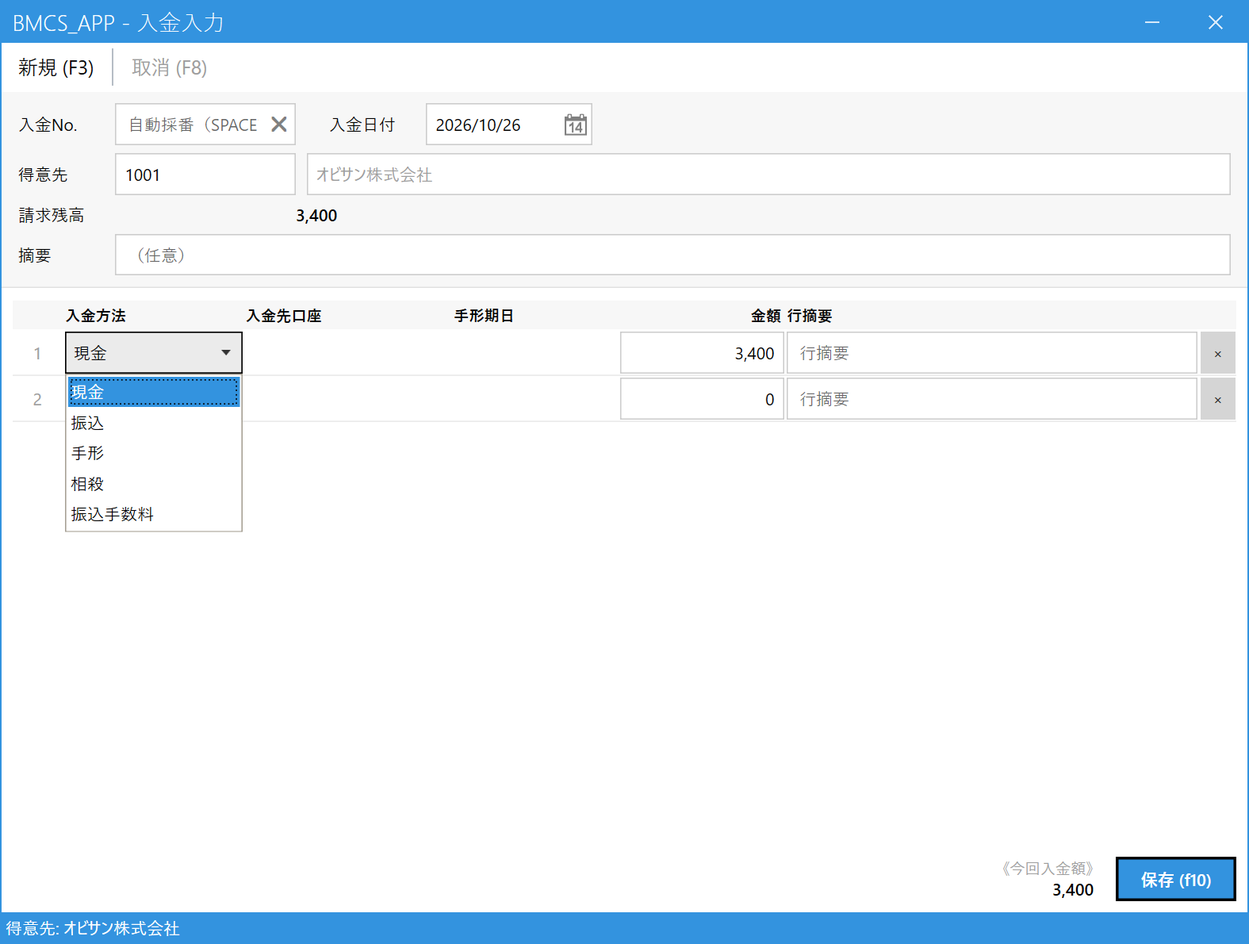
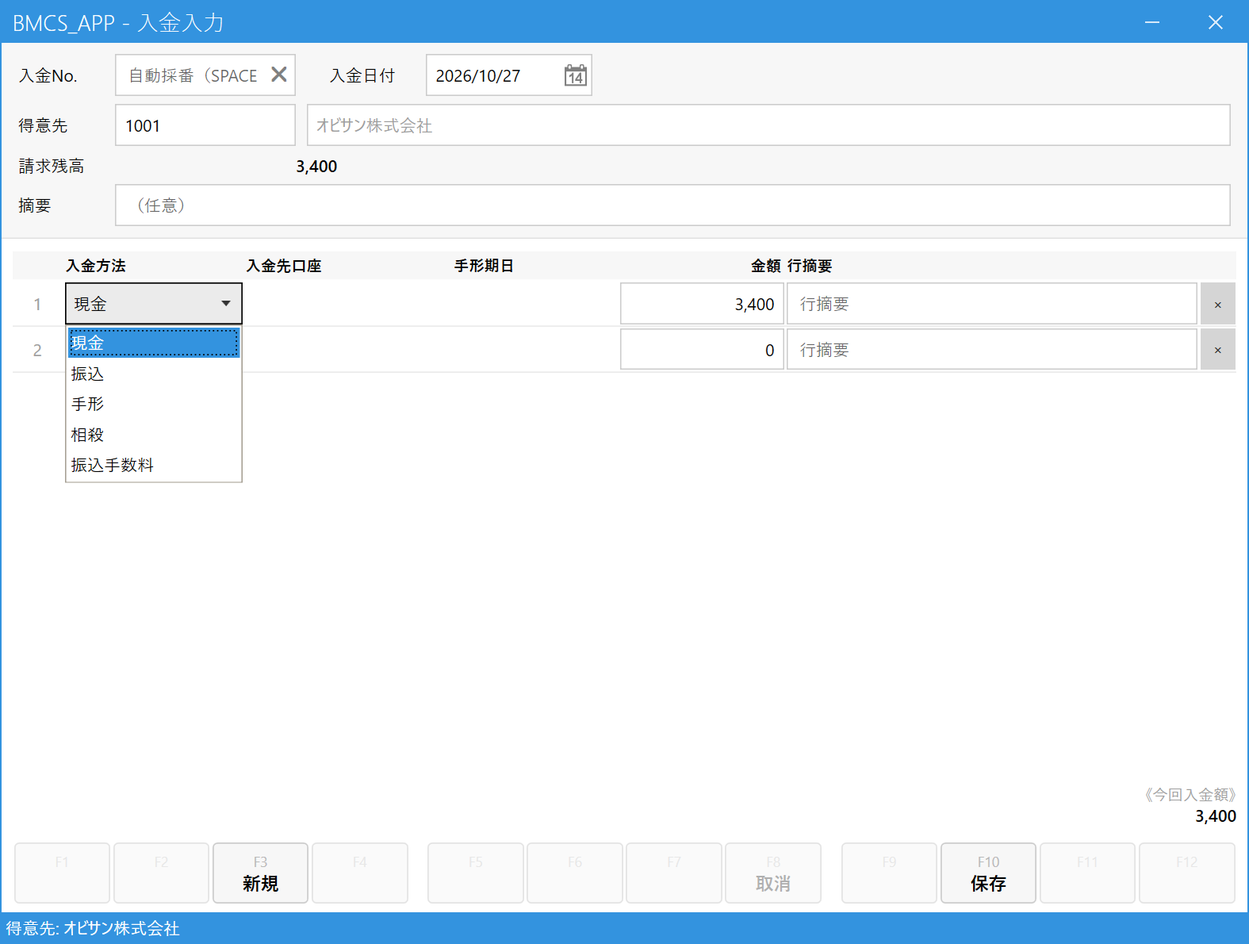
マニュアル更新

diff --git a/docs/users-manual-jp/order-entry.html b/docs/users-manual-jp/order-entry.html
@@ -29,7 +29,7 @@
 <ol class="legend"><li>「受注入力」をクリックする</li></ol>
 
 <h3>画面の見方</h3>
-<figure data-ann='[{"r":[124,130,602,53],"n":1},{"r":[124,193,1341,53],"n":2},{"r":[124,256,1341,116],"n":3},{"r":[2,395,1921,90],"n":4,"b":[1000,700]},{"r":[1385,1077,312,128],"n":5,"b":[1250,900]},{"r":[1710,1087,192,49],"n":6,"b":[1806,900]}]'>
+<figure data-ann='[{"r":[124,68,602,53],"n":1},{"r":[124,131,1341,53],"n":2},{"r":[124,194,1341,116],"n":3},{"r":[2,333,1921,90],"n":4,"b":[1000,700]},{"r":[1592,983,310,128],"n":5,"b":[1450,880]},{"r":[18,1132,1890,77],"n":6,"b":[1000,1040]}]'>
   <div class="frame"><img src="images/order-01-empty.png" alt="受注入力画面（初期状態）"></div>
   <figcaption>受注入力画面（開いた直後）</figcaption>
 </figure>
@@ -39,7 +39,7 @@
   <li><b>担当者・摘要</b>：自社の担当者と、伝票のメモ欄です（どちらも任意）。</li>
   <li><b>明細</b>：何をいくつ注文されたかを1行ずつ入れます。</li>
   <li><b>合計</b>：入力に合わせて自動で計算されます。</li>
-  <li><b>保存</b>：最後にここを押します（<kbd>F10</kbd> でも可）。</li>
+  <li><b>操作ボタン</b>：新規・保存などのボタンです。ボタン上段の小さな「F10」などは、同じ操作ができるキーボードのキーです。最後に<b>「保存」</b>を押します（<kbd>F10</kbd> でも可）。</li>
 </ol>
 
 <h2><span class="no">2.</span>得意先を決める</h2>
@@ -56,7 +56,7 @@
 </ol>
 
 <p>得意先が決まると、得意先名・担当者・営業担当が自動で入ります。</p>
-<figure data-ann='[{"r":[366,193,1099,53],"n":1},{"r":[124,256,662,53],"n":2,"b":[1000,282]},{"r":[1480,132,422,240],"n":3}]'>
+<figure data-ann='[{"r":[366,131,1099,53],"n":1},{"r":[124,194,662,53],"n":2,"b":[1000,220]},{"r":[1480,70,422,240],"n":3}]'>
   <div class="frame"><img src="images/order-03-customer-set.png" alt="得意先を選んだ後"></div>
   <figcaption>得意先を選んだ後</figcaption>
 </figure>
@@ -80,7 +80,7 @@
 </ol>
 
 <p>商品を選ぶと、商品名・単価・税率が自動で入り、カーソルが<b>数量</b>へ移ります。数量を入れて <kbd>Enter</kbd> で次の欄へ進みます。商品を入れると空の行が自動で1行増えるので、続けて次の商品を入力できます。</p>
-<figure data-ann='[{"r":[964,429,123,110],"n":1,"b":[1025,700]},{"r":[1090,429,151,110],"n":2,"b":[1165,700]},{"r":[1480,429,70,110],"n":3,"b":[1515,700]},{"r":[1650,429,224,110],"n":4,"b":[1762,700]},{"r":[1878,429,44,110],"n":5,"b":[1896,700]}]'>
+<figure data-ann='[{"r":[964,367,123,110],"n":1,"b":[1025,700]},{"r":[1090,367,151,110],"n":2,"b":[1165,700]},{"r":[1480,367,70,110],"n":3,"b":[1515,700]},{"r":[1650,367,224,110],"n":4,"b":[1762,700]},{"r":[1878,367,44,110],"n":5,"b":[1896,700]}]'>
   <div class="frame"><img src="images/order-07-filled.png" alt="明細を入力した状態"></div>
   <figcaption>2行入力した状態</figcaption>
 </figure>
@@ -95,14 +95,14 @@
 
 <h2><span class="no">4.</span>内容を確認して保存する</h2>
 <p>得意先・明細・合計が正しいか見直し、<b>保存</b>を押します。</p>
-<figure data-ann='[{"r":[124,319,664,53],"n":1,"b":[1000,282]},{"r":[1385,1077,312,128],"n":2,"b":[1250,900]},{"r":[1710,1087,192,49],"n":3,"b":[1806,900]}]'>
+<figure data-ann='[{"r":[124,257,664,53],"n":1,"b":[1000,220]},{"r":[1592,983,310,128],"n":2,"b":[1450,880]},{"r":[1448,1132,151,77],"n":3,"b":[1300,1000]}]'>
   <div class="frame"><img src="images/order-07-filled.png" alt="保存前の画面"></div>
   <figcaption>保存前の画面</figcaption>
 </figure>
 <ol class="legend">
   <li><b>摘要</b>：伝票に残したいメモ（任意）。右隣の「社内摘要」は社内用で、納品書には印字されません。</li>
   <li><b>合計</b>：税込の合計です。注文内容と合っているか確認します。</li>
-  <li><b>保存 (F10)</b>：ここを押すか <kbd>F10</kbd>。</li>
+  <li><b>保存</b>：ここを押すか <kbd>F10</kbd>。</li>
 </ol>
 <p>保存に成功すると、画面下に<b>「登録しました。受注No. ○○○○○○○○」</b>と表示され、画面は次の入力のために空に戻ります。控えが必要なときは、この受注Noを書き留めておきます。</p>
 <div class="warn">「得意先を指定してください」「明細行を1件以上入力してください」と表示されたときは、足りない項目を入力してもう一度保存します。</div>
@@ -111,10 +111,10 @@
 <table>
   <tr><th>やりたいこと</th><th>操作</th></tr>
   <tr><td>登録済みの受注を開いて見る・直す</td><td>受注No.欄に番号を入れて <kbd>Enter</kbd>、または <kbd>Space</kbd> で一覧から選ぶ。<b>未売上の受注だけ</b>修正できます。直したら保存。</td></tr>
-  <tr><td>前に登録した受注を見たい</td><td>ツールバーの「<」「>」で前後の受注に移動します。</td></tr>
-  <tr><td>過去の受注と同じ内容で新しく登録したい</td><td>ツールバーの<b>「複写」</b>で複写元を選ぶと、内容が入った状態から新規登録できます。</td></tr>
-  <tr><td>注文がキャンセルになった</td><td>その受注を開いて<b>「中止 (F8)」</b>。中止した受注は元に戻せません（間違えたら新しく入力し直します）。売上が完了した受注は中止できません。</td></tr>
-  <tr><td>最初から入力し直したい</td><td><b>「新規 (F3)」</b>で画面を空にします。</td></tr>
+  <tr><td>前に登録した受注を見たい</td><td>画面下の<b>「前伝票」</b>（<kbd>F5</kbd>）・<b>「次伝票」</b>（<kbd>F6</kbd>）で前後の受注に移動します。</td></tr>
+  <tr><td>過去の受注と同じ内容で新しく登録したい</td><td>画面下の<b>「複写」</b>（<kbd>F7</kbd>）で複写元を選ぶと、内容が入った状態から新規登録できます。</td></tr>
+  <tr><td>注文がキャンセルになった</td><td>その受注を開いて<b>「中止」</b>（<kbd>F8</kbd>）。確認が出るので「はい」を押します。中止した受注は元に戻せません（間違えたら新しく入力し直します）。売上が完了した受注は中止できません。</td></tr>
+  <tr><td>最初から入力し直したい</td><td><b>「新規」</b>（<kbd>F3</kbd>）で画面を空にします。</td></tr>
 </table>
 
 <nav class="pager"><a href="index.html">← 目次</a><a href="sales-entry.html">次：売上を登録する →</a></nav>

diff --git a/docs/users-manual-jp/detail-receipt.html b/docs/users-manual-jp/detail-receipt.html
@@ -23,11 +23,11 @@
 <h2><span class="no">1.</span>得意先を決めて、入金の対象を探す</h2>
 <p>メインメニューの<b>「入金」</b>の中の<b>「明細入金」</b>を開き、<b>得意先</b>欄にコードを入れて <kbd>Enter</kbd>（<kbd>Space</kbd> で検索）。右側に、その得意先の<b>入金がまだ済んでいない売上伝票</b>が出ます。</p>
 <figure data-ann='[
- {"r":[539,132,207,49],"n":1,"b":[900,157]},
- {"r":[145,193,228,53],"n":2},
- {"r":[1093,339,463,69],"n":3,"b":[1700,250]},
- {"r":[1098,491,946,44],"n":4,"b":[1400,650]},
- {"r":[1093,879,956,350],"n":5,"b":[500,800]}]'>
+ {"r":[539,70,207,49],"n":1,"b":[900,95]},
+ {"r":[145,131,228,53],"n":2},
+ {"r":[1093,276,463,69],"n":3,"b":[1700,310]},
+ {"r":[1098,392,946,386],"n":4,"b":[1400,650]},
+ {"r":[1093,834,956,347],"n":5,"b":[500,800]}]'>
   <div class="frame"><img src="images/dreceipt-01-customer.png" alt="明細入金（得意先を選んだ直後）"></div>
   <figcaption>得意先を選んだ直後</figcaption>
 </figure>
@@ -40,14 +40,15 @@
 </ol>
 
 <h2><span class="no">2.</span>入金の対象を選ぶ</h2>
-<p><b>売上伝票</b>タブでは、まず伝票を選ぶと下の明細リストが出るので、<b>入金された明細行</b>を選んで <kbd>Enter</kbd>（またはダブルクリック）。左の「入金登録」に1行ずつ入ります。</p>
+<p><b>売上伝票</b>タブでは、まず伝票を選ぶと下の明細リストが出るので、<b>入金された明細行</b>を選んで <kbd>Enter</kbd>（またはダブルクリック、画面下の<b>「追加」</b>〔<kbd>F2</kbd>〕）。左の「入金登録」に1行ずつ入ります。</p>
 <figure data-ann='[
- {"r":[1098,491,946,44],"n":1,"b":[1500,700]},
- {"r":[1093,951,932,43],"n":2,"b":[1500,800]},
- {"r":[16,413,1054,58],"n":3,"b":[500,700]},
- {"r":[334,415,154,52],"n":4,"b":[400,800]},
- {"r":[774,1213,116,50],"n":5,"b":[600,1100]},
- {"r":[918,1213,152,63],"n":6,"b":[1000,1100]}]'>
+ {"r":[1098,430,946,44],"n":1,"b":[1500,650]},
+ {"r":[1093,872,932,43],"n":2,"b":[1500,780]},
+ {"r":[16,351,1054,58],"n":3,"b":[500,650]},
+ {"r":[334,353,154,52],"n":4,"b":[400,780]},
+ {"r":[945,1115,125,63],"n":5,"b":[800,1040]},
+ {"r":[183,1202,163,77],"n":6,"b":[264,1080]},
+ {"r":[1553,1202,163,77],"n":7,"b":[1450,1309]}]'>
   <div class="frame"><img src="images/dreceipt-03-added.png" alt="明細を1行追加した状態"></div>
   <figcaption>明細リストから1行を追加した状態</figcaption>
 </figure>
@@ -57,23 +58,24 @@
   <li><b>入金登録</b>：追加した行です。「充当先」に、伝票番号と行・商品名が出ます。<b>金額は自動で入ります</b>（その行の残額の全額で、手で変えることはできません）。</li>
   <li><b>入金方法</b>：現金・振込などを選びます（振込は入金先口座も選びます）。手形は選べません。</li>
   <li><b>今回入金額</b>：追加した行の合計です。受け取った金額と合っているか確認します。</li>
-  <li><b>保存 (F10)</b>。</li>
+  <li><b>追加</b>（<kbd>F2</kbd>）：右側で行を選んでいるときだけ押せます。</li>
+  <li><b>保存</b>（<kbd>F10</kbd>）。</li>
 </ol>
 <p>行を間違えて入れたら、その行の<b>×</b>で消せます。</p>
 
 <h3>請求書を指定して入金するとき</h3>
-<p>先に<a href="detail-invoice.html">明細請求書</a>を発行してある場合は、<b>「明細請求書」タブ</b>に切り替えて、入金された請求書を選んで <kbd>Enter</kbd>。請求書1枚が丸ごと1行として入ります。</p>
+<p>先に<a href="detail-invoice.html">明細請求書</a>を発行してある場合は、<b>「明細請求書」タブ</b>に切り替えて、入金された請求書を選んで <kbd>Enter</kbd>（または「追加」〔<kbd>F2</kbd>〕）。請求書1枚が丸ごと1行として入ります。</p>
 <div class="note">請求書の<b>一部の売上だけ</b>入金があったときは、請求書タブではなく、<b>売上伝票タブで該当の明細行を指定</b>します。</div>
 
 <h2><span class="no">3.</span>保存する</h2>
-<p><b>保存 (F10)</b> を押すと、入金No.が付いて登録され、指定した売上は「消込済み」（全額の場合）になります。</p>
+<p><b>保存</b>（<kbd>F10</kbd>）を押すと、入金No.が付いて登録され、指定した売上は「消込済み」（全額の場合）になります。</p>
 
 <h2><span class="no">4.</span>よくある操作</h2>
 <table>
   <tr><th>やりたいこと</th><th>操作</th></tr>
   <tr><td>登録済みの入金を見る・直す</td><td>入金No.欄に番号を入れて <kbd>Enter</kbd>、または <kbd>Space</kbd> で一覧から選ぶ。直して保存。</td></tr>
-  <tr><td>入金を取り消す</td><td>入金を呼び出して、ツールバーの<b>「取消 (F8)」</b>。月次締め済みの月の入金は、先に月次締めを解除しないと取り消せません。</td></tr>
-  <tr><td>最初からやり直したい</td><td><b>「新規 (F3)」</b>。</td></tr>
+  <tr><td>入金を取り消す</td><td>入金を呼び出して、画面下の<b>「取消」</b>（<kbd>F8</kbd>）。月次締め済みの月の入金は、先に月次締めを解除しないと取り消せません。</td></tr>
+  <tr><td>最初からやり直したい</td><td><b>「新規」</b>（<kbd>F3</kbd>）。</td></tr>
 </table>
 
 <nav class="pager"><a href="receipt-entry.html">← 前：入金を登録する</a><a href="customer-ledger.html">次：得意先元帳で残高を見る →</a></nav>

diff --git a/docs/users-manual-jp/sales-entry.html b/docs/users-manual-jp/sales-entry.html
@@ -45,11 +45,11 @@
 
 <p>受注の内容が明細に入ります。<b>受注のうち、まだ売上にしていない残りの数量</b>が入るので、今回納品した数量と違うときは数量を直します（分けて納品するときは、納品した分だけにします）。</p>
 <figure data-ann='[
- {"r":[124,193,228,53],"n":1},
- {"r":[124,256,1341,53],"n":2},
- {"r":[2,490,1921,58],"n":3,"b":[1000,760]},
- {"r":[964,492,123,52],"n":4,"b":[1200,760]},
- {"r":[2,1222,1920,36],"n":5,"b":[1100,1100]}]'>
+ {"r":[124,131,228,53],"n":1},
+ {"r":[124,194,1341,53],"n":2},
+ {"r":[2,428,1921,58],"n":3,"b":[1000,760]},
+ {"r":[964,430,123,52],"n":4,"b":[1200,760]},
+ {"r":[2,1220,1921,38],"n":5,"b":[1100,1040]}]'>
   <div class="frame"><img src="images/sales-03-from-order.png" alt="受注を読み込んだ売上入力画面"></div>
   <figcaption>受注を読み込んだ状態</figcaption>
 </figure>
@@ -65,10 +65,10 @@
 <h2><span class="no">3.</span>【受注がない場合】直接入力する</h2>
 <p>受注No.は空のまま、<a href="order-entry.html">受注入力</a>と同じ要領で、<b>得意先 → 商品コード → 数量</b>の順に入力します（得意先・商品は <kbd>Enter</kbd> で確定、わからなければ <kbd>Space</kbd> で検索）。</p>
 <figure data-ann='[
- {"r":[124,256,228,53],"n":1},
- {"r":[68,492,189,52],"n":2,"b":[160,760]},
- {"r":[845,492,116,52],"n":3,"b":[903,760]},
- {"r":[964,492,123,52],"n":4,"b":[1025,760]}]'>
+ {"r":[124,194,228,53],"n":1},
+ {"r":[68,430,189,52],"n":2,"b":[160,760]},
+ {"r":[845,430,116,52],"n":3,"b":[903,760]},
+ {"r":[964,430,123,52],"n":4,"b":[1025,760]}]'>
   <div class="frame"><img src="images/sales-01-empty.png" alt="売上入力画面（初期状態）"></div>
   <figcaption>売上入力画面（開いた直後）</figcaption>
 </figure>
@@ -83,19 +83,19 @@
 <h2><span class="no">4.</span>保存して納品書を出す</h2>
 <p>合計を確認して<b>保存</b>します。</p>
 <figure data-ann='[
- {"r":[1385,1038,312,168],"n":1,"b":[1250,850]},
- {"r":[1710,1038,192,49],"n":2,"b":[1806,850]},
- {"r":[1710,1094,192,52],"n":3,"b":[1560,960]}]'>
+ {"r":[1592,983,310,128],"n":1,"b":[1450,880]},
+ {"r":[1448,1132,151,77],"n":2,"b":[1300,1000]},
+ {"r":[1602,1132,151,77],"n":3,"b":[1460,1050]}]'>
   <div class="frame"><img src="images/sales-03-from-order.png" alt="保存と印刷ボタン"></div>
   <figcaption>画面右下</figcaption>
 </figure>
 <ol class="legend">
   <li><b>合計</b>：税込の合計金額です。</li>
-  <li><b>保存 (F10)</b>：売上を登録します。</li>
-  <li><b>印刷 (F11)</b>：登録済みの売上を呼び出したときに、納品書を印刷します（新規入力中は押せません）。</li>
+  <li><b>保存</b>（<kbd>F10</kbd>）：売上を登録します。</li>
+  <li><b>印刷</b>（<kbd>F11</kbd>）：登録済みの売上を呼び出したときに、納品書を印刷します（新規入力中は押せません）。</li>
 </ol>
 <ol class="steps">
-  <li><b>保存 (F10)</b> を押します。</li>
+  <li><b>保存</b>（<kbd>F10</kbd>）を押します。</li>
   <li>「売上No. ○○ の納品書を発行しますか？」と聞かれます。今すぐ納品書が必要なら<b>「はい」</b>。プレビューが開くので、そこから印刷します。後でまとめて出すなら「いいえ」（メニューの「納品書一括発行」で出せます）。</li>
   <li>画面下に「登録しました。売上No. ○○」と出て、画面は空に戻ります。</li>
 </ol>
@@ -106,9 +106,10 @@
 <table>
   <tr><th>やりたいこと</th><th>操作</th></tr>
   <tr><td>登録済みの売上を見る・直す</td><td>売上No.欄に番号を入れて <kbd>Enter</kbd>、または <kbd>Space</kbd> で一覧から選ぶ。直して保存。</td></tr>
-  <tr><td>売上を取り消す</td><td>売上を呼び出して、右下の<b>取消（削除）ボタン (F8)</b>。伝票は消さずに「取消」状態になります。</td></tr>
-  <tr><td>納品書を出し直す</td><td>売上を呼び出して<b>印刷 (F11)</b>。</td></tr>
-  <tr><td>過去の売上と同じ内容で登録したい</td><td>ツールバーの<b>「複写」</b>。</td></tr>
+  <tr><td>売上を取り消す</td><td>売上を呼び出して、画面下の<b>「削除」</b>（<kbd>F8</kbd>）。伝票は消さずに「取消」状態になります。</td></tr>
+  <tr><td>納品書を出し直す</td><td>売上を呼び出して<b>「印刷」</b>（<kbd>F11</kbd>）。</td></tr>
+  <tr><td>前後の売上を見たい</td><td>画面下の<b>「前伝票」</b>（<kbd>F5</kbd>）・<b>「次伝票」</b>（<kbd>F6</kbd>）。</td></tr>
+  <tr><td>過去の売上と同じ内容で登録したい</td><td>画面下の<b>「複写」</b>（<kbd>F7</kbd>）。</td></tr>
   <tr><td>直せない・取り消せない</td><td>請求の締め処理や月次締めが済んでいる、入金の消込が済んでいる、などの売上は変更できません（編集ロック）。必要なときは締め解除などの手順が要ります。</td></tr>
 </table>
 

diff --git a/docs/users-manual-jp/receipt-entry.html b/docs/users-manual-jp/receipt-entry.html
@@ -31,9 +31,9 @@
 <h2><span class="no">2.</span>得意先を決めて、請求残高を確認する</h2>
 <p><b>得意先</b>欄にコードを入力して <kbd>Enter</kbd>（わからなければ <kbd>Space</kbd> で検索）。得意先が決まると、その得意先の<b>請求残高</b>（まだ入金されていない請求の合計）が表示されます。</p>
 <figure data-ann='[
- {"r":[537,130,210,53],"n":1,"b":[900,157]},
- {"r":[145,193,228,53],"n":2},
- {"r":[24,256,410,32],"n":3,"b":[620,272]}]'>
+ {"r":[537,68,210,53],"n":1,"b":[900,95]},
+ {"r":[145,131,228,53],"n":2},
+ {"r":[24,194,410,32],"n":3,"b":[620,210]}]'>
   <div class="frame"><img src="images/receipt-02-customer-set.png" alt="得意先を入力した入金入力画面"></div>
   <figcaption>得意先を入力した状態</figcaption>
 </figure>
@@ -48,11 +48,11 @@
 <h2><span class="no">3.</span>入金方法と金額を入れる</h2>
 <p>明細の1行目に、<b>どうやって（入金方法）いくら（金額）</b>受け取ったかを入れます。</p>
 <figure data-ann='[
- {"r":[82,418,224,53],"n":1,"b":[194,700]},
- {"r":[782,418,207,53],"n":2,"b":[885,700]},
- {"r":[992,418,518,53],"n":3,"b":[1250,700]},
- {"r":[1260,1080,125,60],"n":4,"b":[1100,900]},
- {"r":[1407,1080,152,56],"n":5,"b":[1480,900]}]'>
+ {"r":[82,356,224,53],"n":1,"b":[194,700]},
+ {"r":[782,356,207,53],"n":2,"b":[885,700]},
+ {"r":[992,356,518,53],"n":3,"b":[1250,700]},
+ {"r":[1430,986,132,60],"n":4,"b":[1300,880]},
+ {"r":[1186,1062,121,77],"n":5,"b":[1100,960]}]'>
   <div class="frame"><img src="images/receipt-03-filled.png" alt="入金額を入力した状態"></div>
   <figcaption>現金3,400円を入力した状態</figcaption>
 </figure>
@@ -61,11 +61,11 @@
   <li><b>金額</b>：受け取った金額。</li>
   <li><b>行摘要</b>：その行のメモ（任意）。</li>
   <li><b>今回入金額</b>：全行の合計。受け取った総額と合っているか確認します。</li>
-  <li><b>保存 (F10)</b>：金額を入れると押せるようになります（4章）。</li>
+  <li><b>保存</b>（<kbd>F10</kbd>）：金額を入れると押せるようになります（4章）。</li>
 </ol>
 
 <h3>入金方法を選ぶ</h3>
-<figure class="mid" data-ann='[{"r":[82,474,224,196],"n":1,"b":[520,574]}]'>
+<figure class="mid" data-ann='[{"r":[82,412,224,196],"n":1,"b":[520,512]}]'>
   <div class="frame"><img src="images/receipt-04-method-open.png" alt="入金方法の選択肢"></div>
   <figcaption>入金方法の選択肢</figcaption>
 </figure>
@@ -74,8 +74,8 @@
 <h3>「振込」を選んだとき：入金先口座</h3>
 <p>入金方法を<b>振込</b>にすると、<b>入金先口座</b>の欄が出ます。どの口座に入金されたかを選びます。</p>
 <figure class="mid" data-ann='[
- {"r":[82,418,224,53],"n":1,"b":[194,700]},
- {"r":[310,418,259,53],"n":2,"b":[440,700]}]'>
+ {"r":[82,356,224,53],"n":1,"b":[194,700]},
+ {"r":[310,356,259,53],"n":2,"b":[440,700]}]'>
   <div class="frame"><img src="images/receipt-05-furikomi.png" alt="振込を選んだ状態"></div>
   <figcaption>入金方法を「振込」にした状態</figcaption>
 </figure>
@@ -89,14 +89,14 @@
 <p>たとえば「現金 10,000円＋振込 20,000円」のように1回の入金が複数の方法に分かれるときは、<b>2行目以降に1行ずつ</b>入力します。行は自動で増えます。合計が「今回入金額」になります。</p>
 
 <h2><span class="no">4.</span>保存する</h2>
-<p><b>保存 (F10)</b> を押します。成功すると画面下に<b>「入金No. ○○ を登録しました。」</b>と表示されます。請求残高から、入金した分が差し引かれます。</p>
+<p><b>保存</b>（<kbd>F10</kbd>）を押します。成功すると画面下に<b>「入金No. ○○ を登録しました。」</b>と表示されます。請求残高から、入金した分が差し引かれます。</p>
 
 <h2><span class="no">5.</span>よくある操作</h2>
 <table>
   <tr><th>やりたいこと</th><th>操作</th></tr>
   <tr><td>登録済みの入金を見る・直す</td><td>入金No.欄に番号を入れて <kbd>Enter</kbd>、または <kbd>Space</kbd> で一覧から選ぶ。直して保存。</td></tr>
-  <tr><td>入金を取り消す</td><td>入金を呼び出して、ツールバーの<b>「取消 (F8)」</b>。</td></tr>
-  <tr><td>入金額を入れ直したい</td><td><b>「新規 (F3)」</b>で空に戻す。</td></tr>
+  <tr><td>入金を取り消す</td><td>入金を呼び出して、画面下の<b>「取消」</b>（<kbd>F8</kbd>）。</td></tr>
+  <tr><td>入金額を入れ直したい</td><td><b>「新規」</b>（<kbd>F3</kbd>）で空に戻す。</td></tr>
   <tr><td>振込手数料を引かれて入金された</td><td class="todo" style="border:none">入金方法の選択肢に「振込手数料」がありますが、手数料差額の扱いは運用が未確定です。確定後に追記します。</td></tr>
 </table>
 

diff --git a/docs/users-manual-jp/manual.css b/docs/users-manual-jp/manual.css
@@ -1,7 +1,8 @@
 :root { --accent: #d9261c; --ink: #222; --muted: #666; --line: #d8dde3; --bg: #f5f7fa; --brand: #1f6fb5; }
 * { box-sizing: border-box; }
 body { margin: 0; background: var(--bg); color: var(--ink); font-family: "Yu Gothic UI", "Meiryo", sans-serif; line-height: 1.8; }
-header.site { background: var(--brand); color: #fff; padding: 14px 24px; }
+html { scroll-padding-top: 56px; }
+header.site { position: sticky; top: 0; z-index: 100; background: var(--brand); color: #fff; padding: 14px 24px; }
 header.site a { color: #fff; text-decoration: none; }
 header.site .crumb { font-size: 13px; opacity: .85; }
 main { max-width: 1040px; margin: 0 auto; padding: 24px; background: #fff; min-height: 100vh; }
@@ -37,7 +38,11 @@ th { background: var(--bg); white-space: nowrap; }
 .cards a { display: block; border: 1px solid var(--line); border-radius: 8px; padding: 14px 16px; text-decoration: none; color: inherit; background: #fff; }
 .cards a:hover { border-color: var(--brand); box-shadow: 0 2px 8px rgba(0,0,0,.12); }
 .cards b { display: block; color: var(--brand); font-size: 18px; }
-nav.pager { display: flex; justify-content: space-between; margin-top: 40px; font-size: 14px; }
+nav.pager { display: flex; justify-content: space-between; gap: 12px; margin-top: 40px; font-size: 15px; }
+nav.pager a { display: inline-block; padding: 12px 22px; border: 2px solid var(--brand); border-radius: 8px; background: #fff; color: var(--brand); font-weight: bold; text-decoration: none; }
+nav.pager a:hover { background: var(--brand); color: #fff; }
+nav.pager a:last-child:not(:first-child) { background: var(--brand); color: #fff; }
+nav.pager a:last-child:not(:first-child):hover { background: #17578f; border-color: #17578f; }
 .flowbox { margin: 12px 0; }
 svg.flow { width: 100%; max-width: 880px; height: auto; font-family: inherit; }
 svg.flow .ln { fill: none; stroke: #555; stroke-width: 2; }

diff --git a/docs/users-manual-jp/delivery-note-bulk.html b/docs/users-manual-jp/delivery-note-bulk.html
@@ -50,7 +50,7 @@
 </ol>
 <div class="note">印刷に成功した伝票は「発行済み」になり、次に画面を開いたときや「再読込」を押したときは一覧に出なくなります。失敗した伝票は未発行のまま残るので、プリンタを確認してやり直します。</div>
 <div class="note">印刷するプリンタは、端末ごとに「マスタ管理」の「プリンタ設定」で決めます。未設定のときは、印刷のたびに印刷ダイアログが開きます。</div>
-<div class="warn">1枚だけ見直したい・内容を確認してから出したいときは、この画面ではなく<a href="sales-entry.html">売上入力</a>で伝票を呼び出し、<b>印刷 (F11)</b> を使います（プレビューが開きます）。</div>
+<div class="warn">1枚だけ見直したい・内容を確認してから出したいときは、この画面ではなく<a href="sales-entry.html">売上入力</a>で伝票を呼び出し、画面下の<b>「印刷」</b>（<kbd>F11</kbd>）を使います（プレビューが開きます）。</div>
 
 <nav class="pager"><a href="sales-entry.html">← 前：売上を登録する</a><a href="copier-csv-import.html">次：コピー機の売上を取り込む →</a></nav>
 </main>
